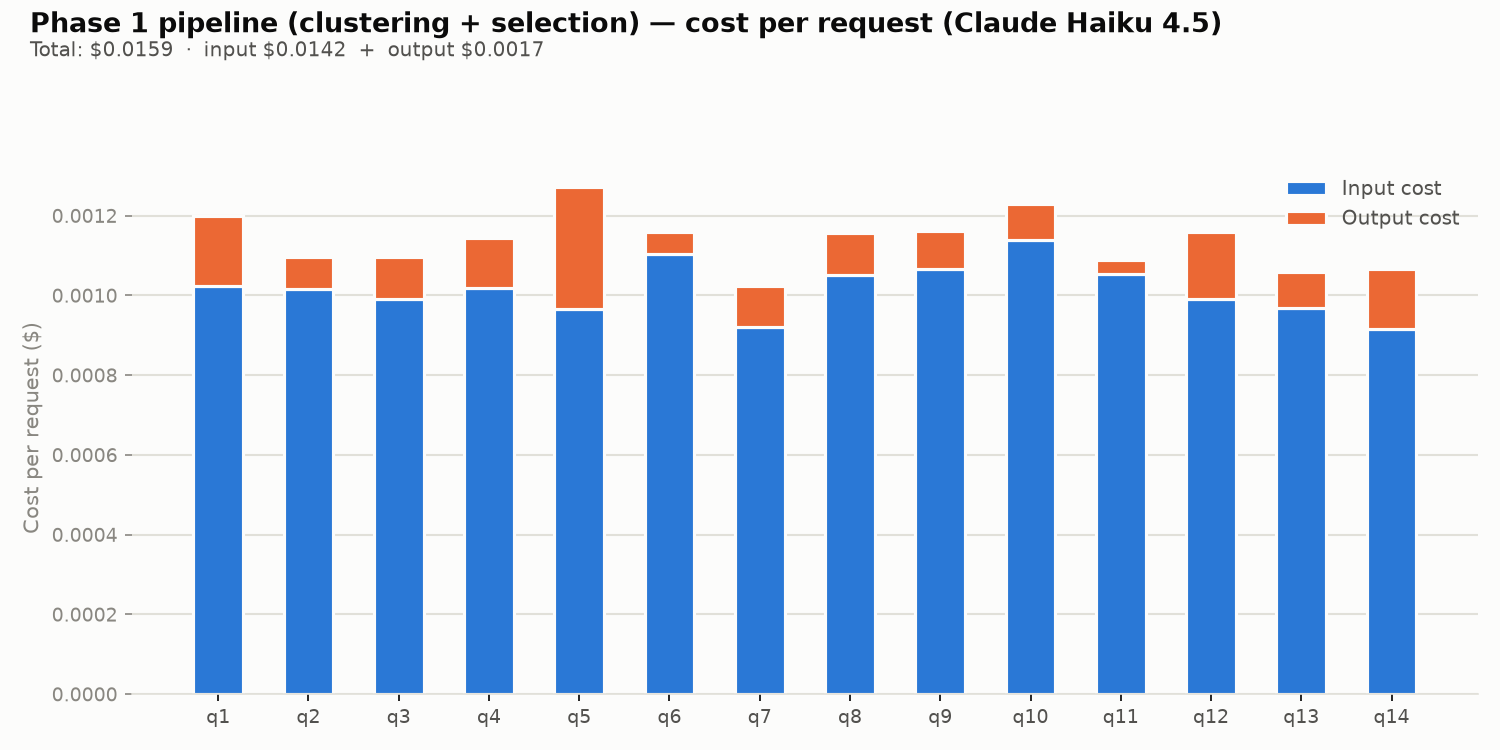
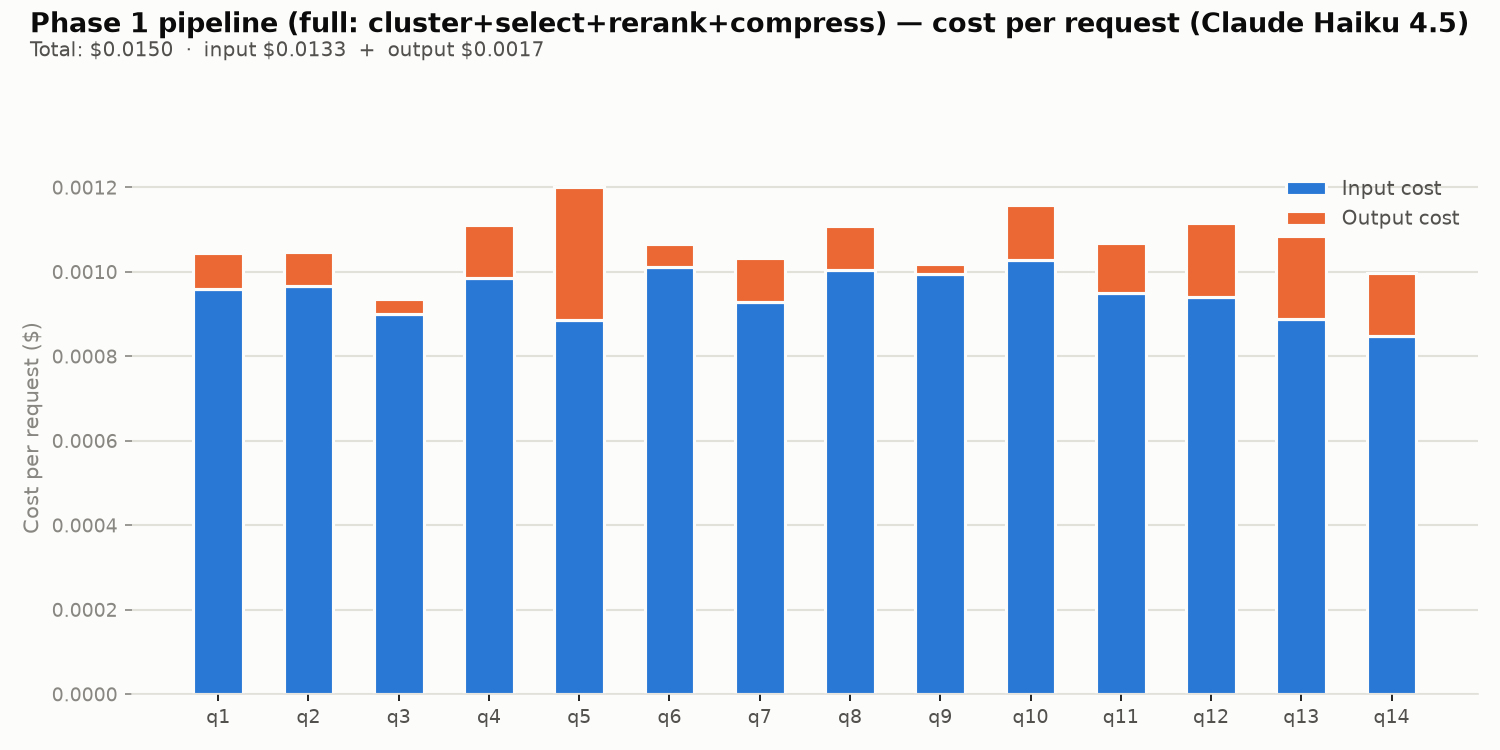
full context engineering pipeline implemented

diff --git a/lab1-context-engineering/context eng pipeline/pipeline.py b/lab1-context-engineering/context eng pipeline/pipeline.py
@@ -1,10 +1,14 @@
 """The context pipeline: clustering -> selection -> reranking -> compression.
 
 Each step is independently toggleable via --steps, so we can measure exactly
-what each one contributes to cost/accuracy. Reranking and compression aren't
-built yet (later sub-tasks) -- right now this pipeline only runs clustering +
-selection; asking for "rerank" or "compress" raises clearly instead of
-silently doing nothing.
+what each one contributes to cost/accuracy.
+
+Clustering and selection are corpus-level: they run once, before any question
+is asked, producing a smaller, deduplicated chunk pool. Reranking is
+question-level -- MMR needs a specific query to score against -- so it runs
+per question, at retrieval time, in place of plain top-K similarity.
+Compression then runs on whatever reranking (or plain top-K) retrieved for
+that question, as the final polish right before the prompt is built.
 """
 
 import argparse
@@ -18,6 +22,8 @@ sys.path.insert(0, str(Path(__file__).resolve().parents[1] / "scripts"))
 
 from clustering import DEFAULT_DISTANCE_THRESHOLD, cluster_chunks, group_by_cluster
 from selection import select_representatives
+from reranking import rerank
+from compression import compress_chunks
 from make_charts import load_runs, plot_cost_chart
 
 from contextlab import config
@@ -26,6 +32,7 @@ from contextlab.model_client import get_model
 from contextlab.retrieval import top_k
 
 TOP_K = 15
+MMR_LAMBDA = 0.7  # the brief's default
 SYSTEM_PROMPT = (
     "Answer the question using only the context provided below. Be concise: "
     "answer in as few words as possible, using the exact wording/values from "
@@ -35,10 +42,11 @@ SYSTEM_PROMPT = (
 
 
 def run_pipeline(chunks, chunk_vecs, steps=("cluster", "select")):
-    """Apply the enabled steps in order. Returns (surviving_chunks, surviving_vecs).
-
-    `steps` is a subset/order of ("cluster", "select", "rerank", "compress").
-    "select" requires "cluster" to have already produced groups.
+    """Apply the corpus-level steps (cluster, select) once, before any
+    question is asked. Returns (surviving_chunks, surviving_vecs). "rerank"
+    and "compress" are handled later, per question, in answer_question --
+    they're accepted in `steps` here but ignored, since this function only
+    prepares the shared candidate pool.
     """
     working_chunks, working_vecs = chunks, chunk_vecs
     groups = None
@@ -54,27 +62,29 @@ def run_pipeline(chunks, chunk_vecs, steps=("cluster", "select")):
         working_chunks = list(survivors.values())
         working_vecs = embed_texts([c["text"] for c in working_chunks])
 
-    if "rerank" in steps:
-        raise NotImplementedError("reranking isn't built yet")
-
-    if "compress" in steps:
-        raise NotImplementedError("compression isn't built yet")
-
     return working_chunks, working_vecs
 
 
-def build_prompt(question, retrieved_chunks):
-    context_block = "\n\n".join(
-        f"[{chunk['source']}]\n{chunk['text']}" for chunk, _ in retrieved_chunks
-    )
+def build_prompt(question, chunks):
+    context_block = "\n\n".join(f"[{c['source']}]\n{c['text']}" for c in chunks)
     return f"Context:\n{context_block}\n\nQuestion: {question}"
 
 
-def answer_question(question, chunks, chunk_vecs, model, k=TOP_K):
-    retrieved = top_k(question, chunks, chunk_vecs, k=min(k, len(chunks)))
-    prompt = build_prompt(question, retrieved)
+def retrieve(question, chunks, chunk_vecs, k, use_rerank):
+    if use_rerank:
+        results = rerank(question, chunks, chunk_vecs, k=min(k, len(chunks)), lambda_param=MMR_LAMBDA)
+    else:
+        results = top_k(question, chunks, chunk_vecs, k=min(k, len(chunks)))
+    return [c for c, _ in results]
+
+
+def answer_question(question, chunks, chunk_vecs, model, steps, k=TOP_K):
+    retrieved_chunks = retrieve(question, chunks, chunk_vecs, k, use_rerank=("rerank" in steps))
+    if "compress" in steps:
+        retrieved_chunks = compress_chunks(retrieved_chunks)
+    prompt = build_prompt(question, retrieved_chunks)
     response = model.generate(system=SYSTEM_PROMPT, user_message=prompt)
-    return response, retrieved
+    return response, retrieved_chunks
 
 
 def load_gold_questions():
@@ -89,7 +99,7 @@ def run(model_name, steps, out_path):
     pipeline_chunks, pipeline_vecs = run_pipeline(chunks, chunk_vecs, steps=steps)
     print(f"Pipeline steps: {steps}")
     print(f"Chunks before pipeline: {len(chunks)}")
-    print(f"Chunks after pipeline:  {len(pipeline_chunks)}\n")
+    print(f"Chunks after cluster+select: {len(pipeline_chunks)}\n")
 
     model = get_model(model_name)
     gold = load_gold_questions()
@@ -97,8 +107,8 @@ def run(model_name, steps, out_path):
     out_path.parent.mkdir(parents=True, exist_ok=True)
     with open(out_path, "w") as f:
         for item in gold:
-            response, retrieved = answer_question(
-                item["question"], pipeline_chunks, pipeline_vecs, model
+            response, retrieved_chunks = answer_question(
+                item["question"], pipeline_chunks, pipeline_vecs, model, steps
             )
             record = {
                 "id": item["id"],
@@ -106,7 +116,7 @@ def run(model_name, steps, out_path):
                 "reference_answer": item["answer"],
                 "tags": item["tags"],
                 "model_answer": response.text,
-                "retrieved_chunk_ids": [c["id"] for c, _ in retrieved],
+                "retrieved_chunk_ids": [c["id"] for c in retrieved_chunks],
                 "input_tokens": response.input_tokens,
                 "output_tokens": response.output_tokens,
                 "input_cost": response.cost.input_cost,
@@ -127,18 +137,16 @@ def run(model_name, steps, out_path):
 if __name__ == "__main__":
     ap = argparse.ArgumentParser()
     ap.add_argument("--model", default="mock", choices=["mock", "haiku"])
-    ap.add_argument("--steps", default="cluster,select")
+    ap.add_argument("--steps", default="cluster,select,rerank,compress")
+    ap.add_argument("--chart-name", default="cost_chart_phase1.png")
+    ap.add_argument("--chart-title", default="Phase 1 pipeline (full: cluster+select+rerank+compress) — cost per request (Claude Haiku 4.5)")
     args = ap.parse_args()
 
     steps = tuple(args.steps.split(","))
-    out_path = config.RESULTS_DIR / f"pipeline_runs_{args.model}.jsonl"
+    out_path = config.RESULTS_DIR / f"pipeline_runs_{args.model}_{'-'.join(steps)}.jsonl"
 
     run(args.model, steps, out_path)
 
     if args.model == "haiku":
         runs = load_runs(out_path)
-        plot_cost_chart(
-            runs,
-            config.RESULTS_DIR / "cost_chart_phase1.png",
-            "Phase 1 pipeline (clustering + selection) — cost per request (Claude Haiku 4.5)",
-        )
+        plot_cost_chart(runs, config.RESULTS_DIR / args.chart_name, args.chart_title)

diff --git a/lab1-context-engineering/context eng pipeline/compression.py b/lab1-context-engineering/context eng pipeline/compression.py
@@ -1,0 +1,129 @@
+"""Step 4 of the context pipeline: compression.
+
+Even after clustering + selection + reranking, surviving chunks can still
+share overlapping sentences -- e.g. two chunks about different facts might
+both open with similar boilerplate. Compression is algorithmic, deterministic
+sentence-level dedup: given an ordered list of chunks, drop any sentence
+that's too similar to one already kept, from this chunk or any earlier one.
+No LLM involved, so the same input always produces exactly the same output.
+"""
+
+import re
+import sys
+from pathlib import Path
+
+sys.path.insert(0, str(Path(__file__).resolve().parents[1] / "src"))
+
+_WORD_RE = re.compile(r"[a-z0-9]+")
+_SENTENCE_SPLIT_RE = re.compile(r"(?<=[.!?])\s+|\n+")
+
+# Tuned empirically against the post-selection (55-chunk) set. At 0.4-0.5,
+# short generic phrases produce false-positive matches purely from shared
+# filler words -- e.g. "Defaults to 3." vs "Defaults to 8080." share
+# {"defaults", "to"} out of 3 words each (Jaccard 0.5) despite being two
+# different facts. 0.6 is the highest threshold below which every confirmed
+# drop is a genuine same-fact restatement (URL as prose vs. code constant,
+# job states in backticks vs. bold, concurrency=4 and timeout=30 each stated
+# twice), with no confirmed false positives.
+OVERLAP_THRESHOLD = 0.6
+
+
+def _split_sentences(text):
+    return [s.strip() for s in _SENTENCE_SPLIT_RE.split(text) if s.strip()]
+
+
+def _word_set(sentence):
+    return set(_WORD_RE.findall(sentence.lower()))
+
+
+def _jaccard(a, b):
+    if not a or not b:
+        return 0.0
+    return len(a & b) / len(a | b)
+
+
+def compress_chunks_with_report(chunks, overlap_threshold=OVERLAP_THRESHOLD):
+    """Deterministic sentence-level dedup across an ordered list of chunks.
+
+    Processes chunks in the given order. For each sentence, checks its word
+    overlap (Jaccard) against every sentence already kept -- from this chunk
+    or any earlier one -- and drops it if the overlap is >= overlap_threshold.
+
+    Returns (compressed_chunks, drops):
+      - compressed_chunks: new chunk dicts with compressed `text`; a chunk
+        that becomes fully redundant (every sentence dropped) is dropped
+        entirely.
+      - drops: a list of (dropped_sentence, matched_sentence, score) for
+        every sentence actually removed, for auditing/reporting.
+    """
+    seen = []  # (sentence_text, word_set) already kept, in order
+    compressed = []
+    drops = []
+
+    for chunk in chunks:
+        kept_sentences = []
+        for sentence in _split_sentences(chunk["text"]):
+            words = _word_set(sentence)
+            best_match, best_score = None, 0.0
+            for seen_text, seen_words in seen:
+                score = _jaccard(words, seen_words)
+                if score > best_score:
+                    best_match, best_score = seen_text, score
+
+            if best_score >= overlap_threshold:
+                drops.append((sentence, best_match, best_score))
+            else:
+                kept_sentences.append(sentence)
+                seen.append((sentence, words))
+
+        if kept_sentences:
+            new_chunk = dict(chunk)
+            new_chunk["text"] = " ".join(kept_sentences)
+            compressed.append(new_chunk)
+        # else: chunk was fully redundant with earlier content -- dropped
+
+    return compressed, drops
+
+
+def compress_chunks(chunks, overlap_threshold=OVERLAP_THRESHOLD):
+    return compress_chunks_with_report(chunks, overlap_threshold)[0]
+
+
+if __name__ == "__main__":
+    sys.path.insert(0, str(Path(__file__).resolve().parent))
+    from clustering import DEFAULT_DISTANCE_THRESHOLD, cluster_chunks, group_by_cluster
+    from selection import select_representatives
+    from contextlab.embeddings import embed_texts, load_chunks
+
+    chunks = load_chunks()
+    chunk_vecs = embed_texts([c["text"] for c in chunks])
+    labels, _ = cluster_chunks(chunk_vecs, distance_threshold=DEFAULT_DISTANCE_THRESHOLD)
+    groups = group_by_cluster(chunks, labels)
+    survivors = list(select_representatives(groups, strategy="most_authoritative").values())
+
+    print(f"Chunks entering compression (post cluster+select): {len(survivors)}")
+    total_sentences = sum(len(_split_sentences(c["text"])) for c in survivors)
+    before_chars = sum(len(c["text"]) for c in survivors)
+
+    compressed, drops = compress_chunks_with_report(survivors)
+    after_chars = sum(len(c["text"]) for c in compressed)
+    dropped_content_chars = sum(len(s) for s, _, _ in drops)
+
+    print(f"Chunks after compression: {len(compressed)}")
+    print(f"Sentences dropped as redundant: {len(drops)} / {total_sentences}")
+    print(f"  chars removed as genuine redundancy: {dropped_content_chars} "
+          f"({100 * dropped_content_chars / before_chars:.1f}% of {before_chars})")
+    print(f"  chars before -> after (includes whitespace normalization "
+          f"from rejoining sentences): {before_chars} -> {after_chars} "
+          f"({100 * (1 - after_chars / before_chars):.1f}% total)\n")
+
+    print("Sentences actually dropped:")
+    for sentence, match, score in drops:
+        print(f"  [{score:.2f}] dropped: {sentence!r}")
+        print(f"         matched: {match!r}")
+    print()
+
+    # Determinism check required by the brief: same input -> same output.
+    compressed_again = compress_chunks(survivors)
+    same = [c["text"] for c in compressed] == [c["text"] for c in compressed_again]
+    print(f"Determinism check (run twice on identical input): {'PASS' if same else 'FAIL'}")

diff --git a/lab1-context-engineering/context eng pipeline/reranking.py b/lab1-context-engineering/context eng pipeline/reranking.py
@@ -1,0 +1,99 @@
+"""Step 3 of the context pipeline: reranking with Maximal Marginal Relevance.
+
+Plain top-K retrieval picks the K chunks most similar to the question, which
+tends to cluster around one narrow angle. MMR balances relevance against
+diversity: each pick is scored on how relevant it is AND how different it is
+from what's already been picked, so the final set covers more ground instead
+of several near-duplicate takes on the same idea.
+"""
+
+import sys
+from pathlib import Path
+
+import numpy as np
+
+sys.path.insert(0, str(Path(__file__).resolve().parents[1] / "src"))
+from contextlab.embeddings import embed_query
+
+
+def mmr(query_vec, candidates, candidate_vecs, k=15, lambda_param=0.7):
+    """Maximal Marginal Relevance selection.
+
+    candidates/candidate_vecs must already be L2-normalized (so a dot product
+    is a cosine similarity). Returns a list of (chunk, relevance_score) in
+    selection order -- the chunk picked first is most relevant overall; each
+    later pick trades some relevance for staying different from what's
+    already selected, weighted by lambda_param.
+    """
+    k = min(k, len(candidates))
+    relevance = candidate_vecs @ query_vec
+
+    selected = [int(np.argmax(relevance))]
+    remaining = [i for i in range(len(candidates)) if i != selected[0]]
+
+    while remaining and len(selected) < k:
+        best_i, best_score = None, -np.inf
+        for i in remaining:
+            sim_to_selected = max(float(candidate_vecs[i] @ candidate_vecs[j]) for j in selected)
+            # 70% focus on relevance and 30% on similarity 
+            score = lambda_param * relevance[i] - (1 - lambda_param) * sim_to_selected
+            if score > best_score:
+                best_i, best_score = i, score
+        selected.append(best_i)
+        remaining.remove(best_i)
+
+    return [(candidates[i], float(relevance[i])) for i in selected]
+
+
+def rerank(question, candidates, candidate_vecs, k=15, lambda_param=0.7):
+    query_vec = embed_query(question)
+    return mmr(query_vec, candidates, candidate_vecs, k=k, lambda_param=lambda_param)
+
+
+if __name__ == "__main__":
+    # Sanity check: lambda=1.0 (pure relevance, same as plain top-K) vs
+    # lambda=0.7 (the brief's default, room for diversity) on a real question,
+    # over the already cluster+select-reduced chunk set.
+    sys.path.insert(0, str(Path(__file__).resolve().parent))
+    from clustering import DEFAULT_DISTANCE_THRESHOLD, cluster_chunks, group_by_cluster
+    from selection import select_representatives
+    from contextlab.embeddings import embed_texts, load_chunks
+
+    chunks = load_chunks()
+    chunk_vecs = embed_texts([c["text"] for c in chunks])
+    labels, _ = cluster_chunks(chunk_vecs, distance_threshold=DEFAULT_DISTANCE_THRESHOLD)
+    groups = group_by_cluster(chunks, labels)
+    survivors = select_representatives(groups, strategy="most_authoritative")
+    pipeline_chunks = list(survivors.values())
+    pipeline_vecs = embed_texts([c["text"] for c in pipeline_chunks])
+
+    question = "What is the rate limit for a single API key?"
+    print(f"Question: {question}")
+    print(f"Candidate pool: {len(pipeline_chunks)} chunks (post cluster+select)\n")
+
+    print("=== k=5 (small pool: diversity pressure has room to matter) ===\n")
+    for lam, label in [(1.0, "lambda=1.0 (pure relevance, = plain top-K)"),
+                        (0.7, "lambda=0.7 (brief's default)"),
+                        (0.5, "lambda=0.5 (stronger diversity push)")]:
+        print(f"--- {label} ---")
+        results = rerank(question, pipeline_chunks, pipeline_vecs, k=5, lambda_param=lam)
+        for chunk, score in results:
+            preview = chunk["text"].replace("\n", " ")[:70]
+            print(f"  relevance={score:.3f}  [{chunk['source']}]  {preview}...")
+        print()
+
+    # Does reranking actually drop the stale changelog chunk from the context
+    # at the pipeline's real k=15, where MMR has much more room to include
+    # everything and the diversity penalty has far less pressure to apply?
+    print("=== k=15 (the pipeline's actual TOP_K) -- does the stale rate-limit "
+          "chunk survive? ===\n")
+    stale_id = "docs/changelog.md::2"
+    for lam in (1.0, 0.7, 0.5):
+        results = rerank(question, pipeline_chunks, pipeline_vecs, k=15, lambda_param=lam)
+        included = stale_id in [c["id"] for c, _ in results]
+        print(f"  lambda={lam}  stale chunk ({stale_id}) included = {included}")
+    print("\n  At k=15 there's enough room for everything even mildly relevant, so "
+          "MMR mostly just reorders rather than excludes -- the stale-trap chunk "
+          "clustering/selection missed still reaches the model regardless of "
+          "lambda at this k. The exclusion effect only shows up above at the "
+          "tighter k=5, where MMR genuinely has to trade something away.")
